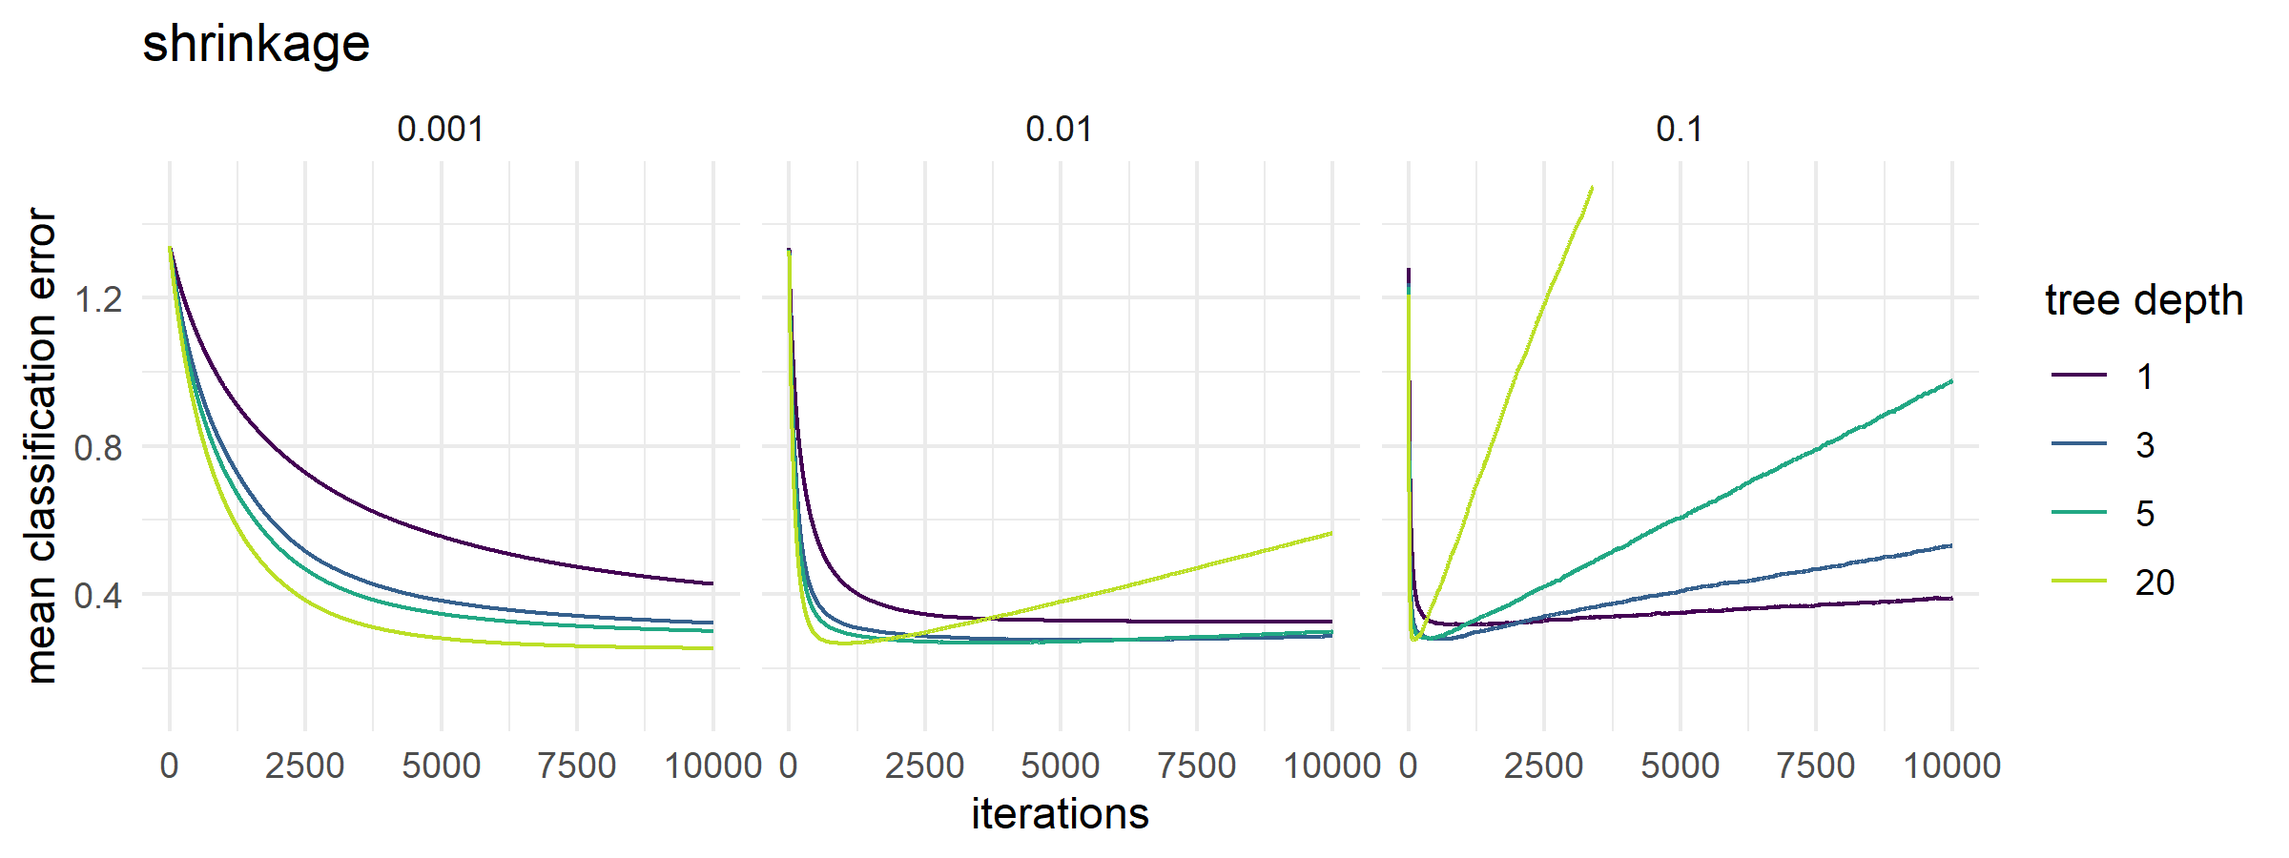
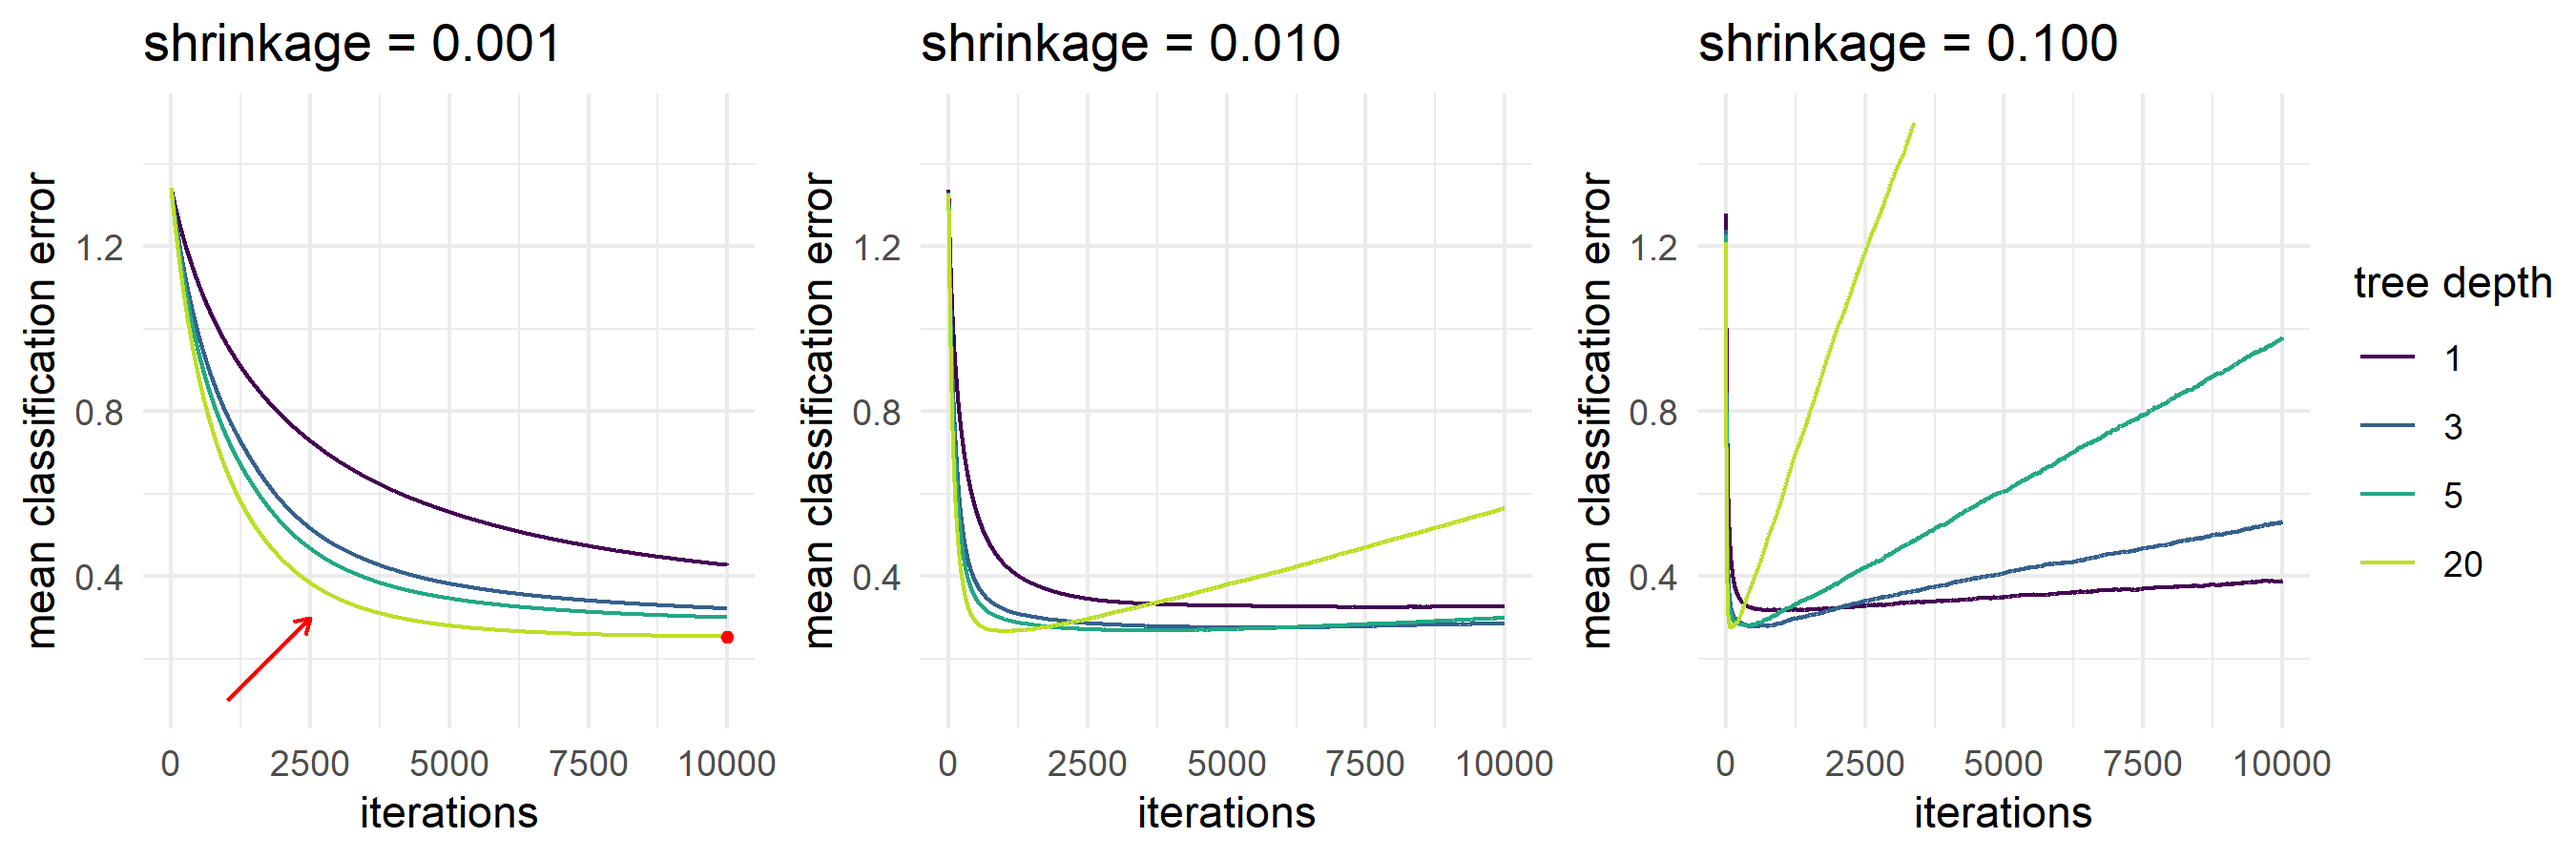
marked best model in spam example

diff --git a/slides/boosting/slides-boosting-gbm-regularization.tex b/slides/boosting/slides-boosting-gbm-regularization.tex
@@ -157,7 +157,7 @@ Max. tree depth     & $\{1, 3, 5, 20\}$
 \end{table}
 
 \vfill
-We consider the 3-CV test error to find the optimal parameters:
+We consider the 3-CV test error to find the optimal parameters (red):
 
 
 % \framebreak
